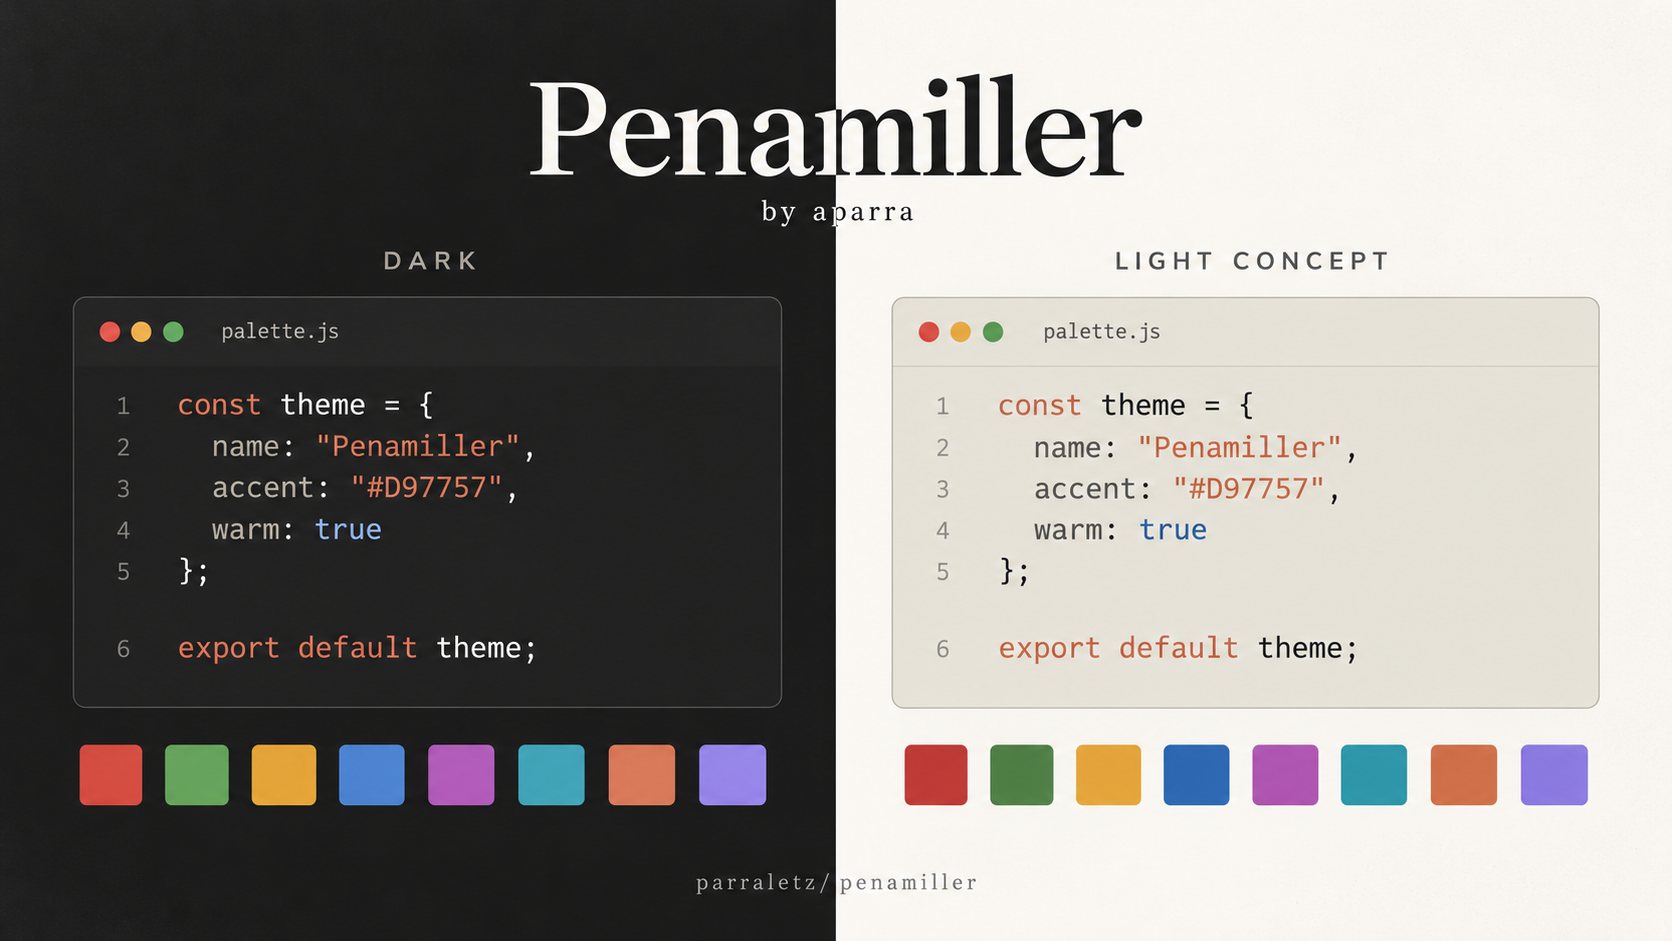
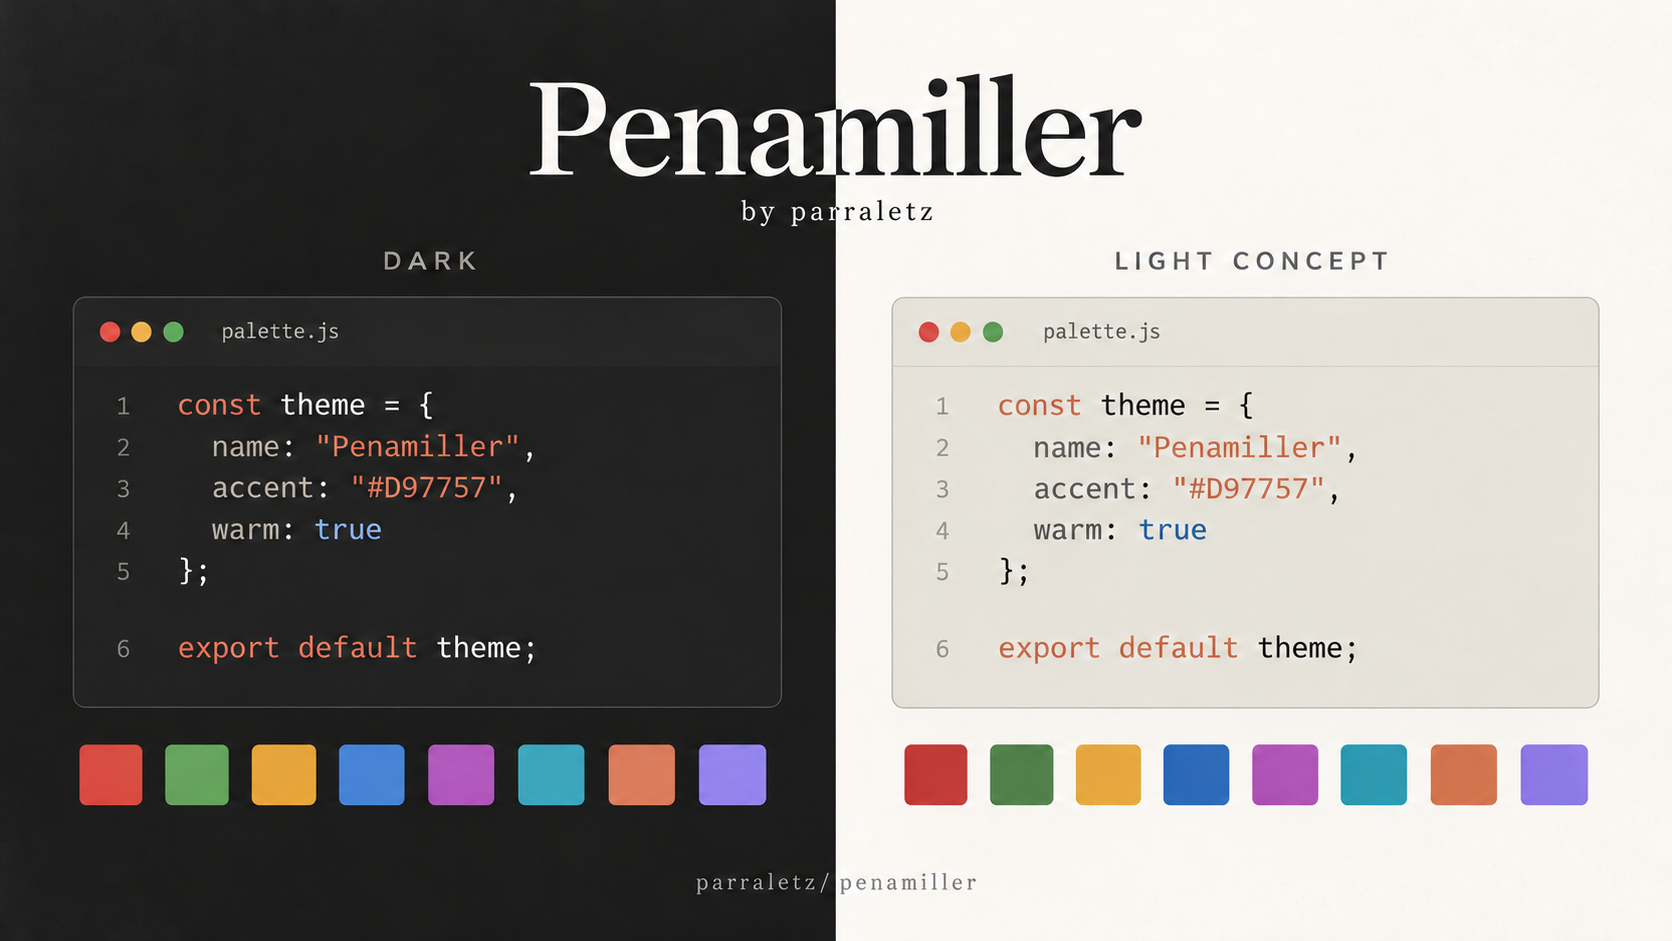
Update author to parraletz and document sunset inspiration

diff --git a/README.md b/README.md
@@ -7,7 +7,7 @@
 > All included ports are still dark. For exact colors, refer to `palette.json`
 > rather than the illustration's pixels.
 
-A dark color palette created by **aparra**, independent of personal dotfiles.
+A dark color palette created by **parraletz**, independent of personal dotfiles.
 Repository: [parraletz/penamiller](https://github.com/parraletz/penamiller).
 
 - Background: `#141413`; foreground: `#FAF9F5`; orange accent: `#D97757`.
@@ -20,6 +20,17 @@ Repository: [parraletz/penamiller](https://github.com/parraletz/penamiller).
 Ports are static files: changing the palette **does not regenerate them**.
 Nothing is installed or activated automatically. Back up your files and merge
 the snippets into your configuration rather than replacing entire config files.
+
+## Inspiration
+
+Penamiller is inspired by the sunset colors along the road from **Peñamiller
+to Pinal de Amoles, Querétaro, Mexico**. Its warm accents and dark background
+bring that evening atmosphere into terminals and editors.
+
+For a look at the region behind the palette, explore the
+[official Querétaro tourism guide to Pinal de Amoles](https://queretaro.travel/lugares/conoce-pinal-de-amoles/)
+(in Spanish), which describes the changing landscape from Peñamiller's
+semi-desert mountains to the forests of the Sierra Gorda.
 
 ## Installation by application
 

diff --git a/assets/README.md b/assets/README.md
@@ -1,10 +1,15 @@
 # Imagen del README
 
 `penamiller-light-dark.png` fue generada con la herramienta integrada de
-generación de imágenes. El prompt completo está en
+generación de imágenes. El prompt base actualizado está en
 [`penamiller-light-dark.prompt.txt`](penamiller-light-dark.prompt.txt).
 
 Es una ilustración comparativa, no una captura de una aplicación ni una
 garantía de valores RGB exactos. El panel claro es conceptual: no se han
 creado una paleta clara ni ports claros. La paleta canónica sigue en
 `../palette.json`. El preview original de KDE se conserva sin modificaciones.
+
+The README banner was edited with the built-in image generation tool to use
+the public author name `parraletz`. The edit prompt is preserved in
+[`penamiller-light-dark.edit-prompt.txt`](penamiller-light-dark.edit-prompt.txt).
+The original KDE screenshot remains unchanged.

diff --git a/SOURCE.md b/SOURCE.md
@@ -1,7 +1,7 @@
 # Origen
 
 Extraído de `parraletz/dotfiles-ai`, commit `9a5da19`, sin copiar su
-historial ni las configuraciones personales. Autor de la paleta: aparra.
+historial ni las configuraciones personales. Autor de la paleta: parraletz.
 
 Los archivos de tema se conservan; Ghostty, WezTerm, Catppuccin/Neovim,
 Herdr y fzf contienen solo el fragmento reutilizable de color.
